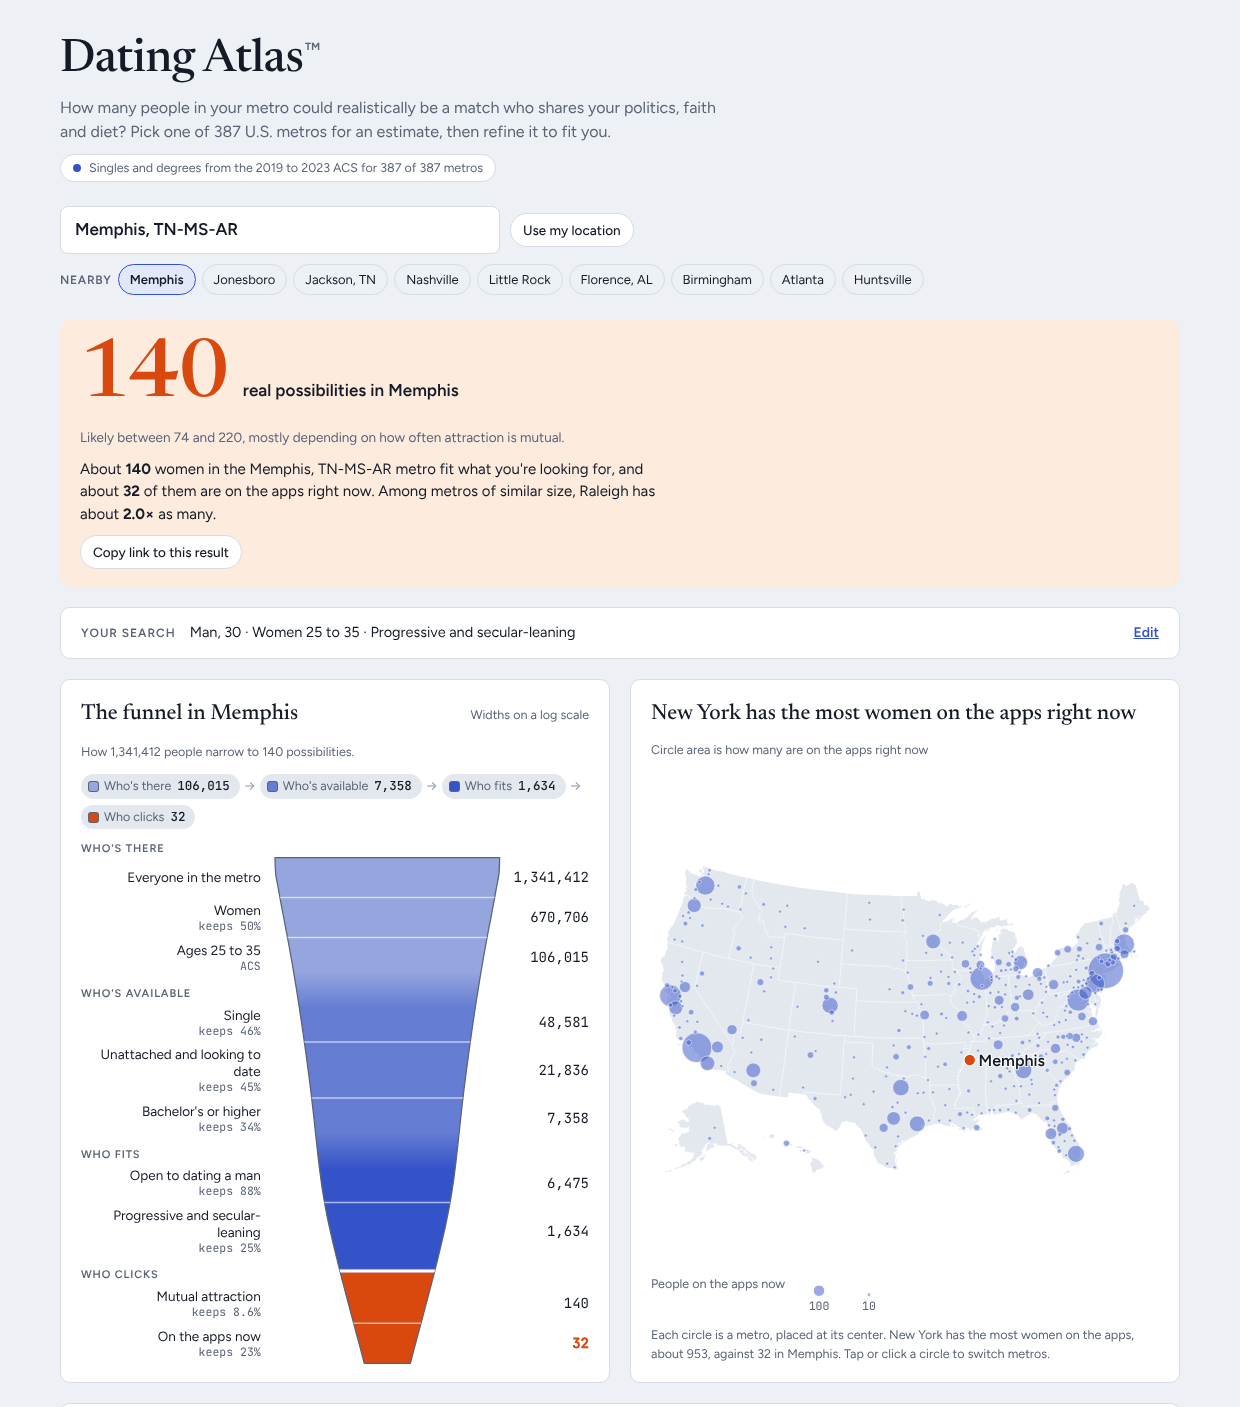
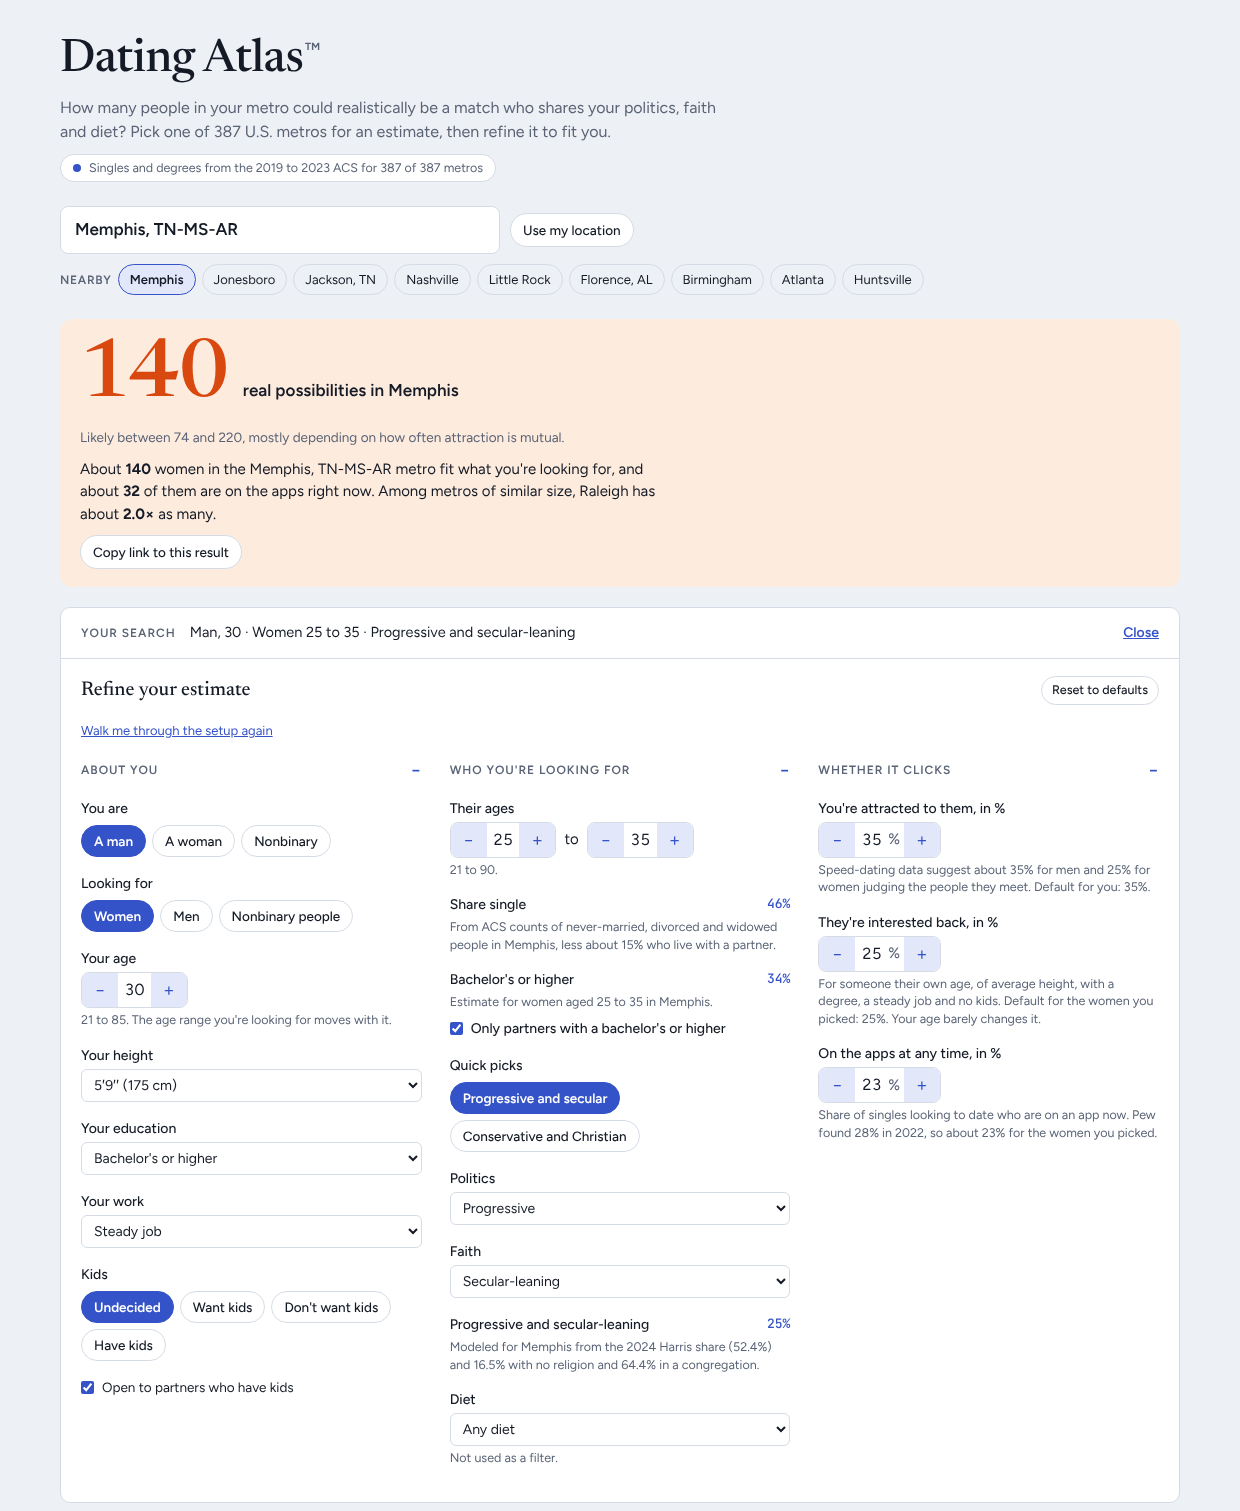
Update the README screenshot to show the new number inputs
The screenshot now shows the Memphis result with the settings open: your age, their ages and the
three rates as number fields with − and + buttons. The alt text describes the new image.

Claude-Session: https://claude.ai/code/session_01S4KTq66MRm5ftWrCecRB7F

diff --git a/README.md b/README.md
@@ -4,7 +4,7 @@ Dating Atlas estimates how many people in a U.S. metro could realistically be yo
 
 Live page: https://datingatlas.dev/
 
-![Dating Atlas showing 140 possibilities in Memphis, with the funnel from 1.3 million people down to 32 on the apps and a map of every metro](docs/atlas-screenshot.png)
+![Dating Atlas showing 140 possibilities in Memphis, with the settings open: your age, their ages 25 to 35 and the attraction and app rates as number fields with minus and plus buttons, plus gender, kids, politics, faith and diet choices](docs/atlas-screenshot.png)
 
 ## What it does
 
